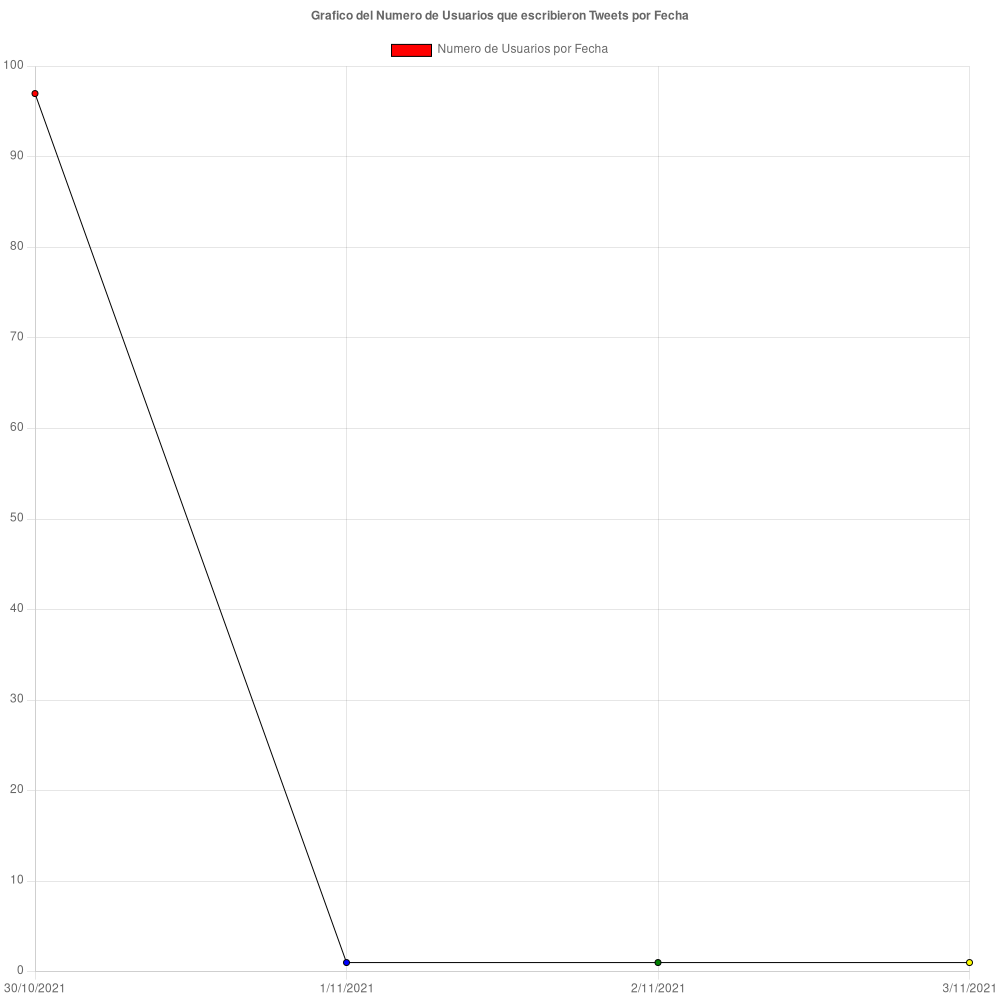
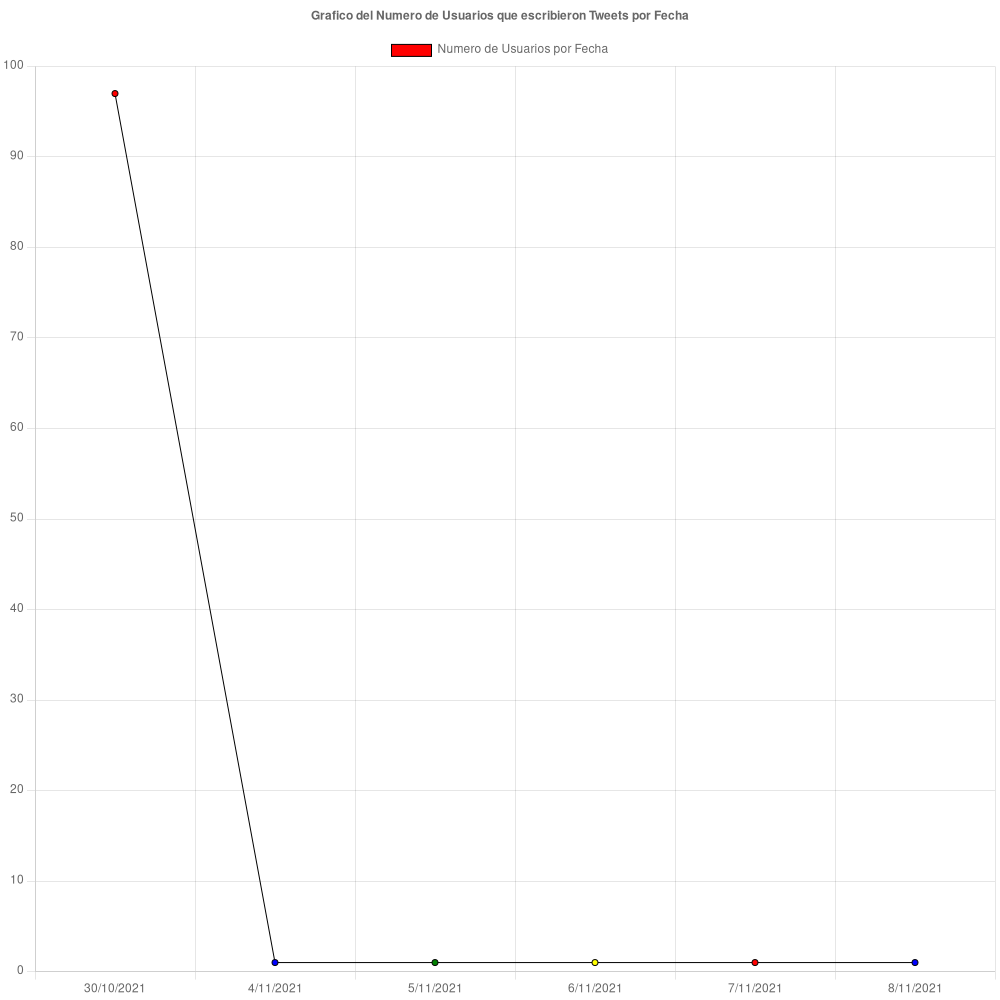
trabajo terminado

diff --git a/index.js b/index.js
@@ -1,16 +1,12 @@
 var natural = require('natural');
 var tokenizer = new natural.AggressiveTokenizerEs();
 
-
-
 var Twit = require('twit')
 var T = new Twit({
     consumer_key : "S0AENDlf3pPFqqtMMBGrDYB8z",
     consumer_secret : "t20hmQFuJ0eb6KmWcAAxaSoh3PmwjLjmii0Ttrzz3oGksSXXxv",
     access_token : "1186073449569144832-A3h1HusrVTjjlm29QUCIPXPMqRMN38",
     access_token_secret : "rPLFcHAhxd7cwTdOFuxF3bTNd2Wftw9RvqeUV32Mhiqna",
-  //timeout_ms:           60*1000,  // optional HTTP request timeout to apply to all requests.
-  //strictSSL:            true,     // optional - requires SSL certificates to be valid.
 })
 
 const fs = require('fs').promises;
@@ -18,7 +14,7 @@ const { ChartJSNodeCanvas }= require('chartjs-node-canvas');
 const width = 1000;   // define width and height of canvas 
 const height = 1000;   
 const chartCallback = (ChartJS) => {
- //console.log('Creando Histograma')
+
 };
 const canvasRenderService = new ChartJSNodeCanvas({width, height, chartCallback});
 const createImage = async (datos,tipoGrafico,op,nombreImagen) => {
@@ -256,16 +252,22 @@ function getTweets2(err, data, response) {
     datos.datasets[0].label = "Histograma de Palabras 2"
     datos.datasets[0].data = ejey_2
     //item 2 a)
-    //createImage(datos,'bar',opciones, "histograma2")
+    createImage(datos,'bar',opciones, "histograma2")
 
     //item 3
     //interseccion de conjuntos
+    console.log("Interseccion de Conjuntos: ")
+    let intersection = conjunto1Tweets.filter (x => conjunto2Tweets.includes (x));
+    console.log(intersection)
+
 
     //item 4
     //union de conjuntos
+    console.log("Union de Conjuntos: ")
+    let union = [...new Set([...conjunto1Tweets, ...conjunto2Tweets])];
+    console.log(union)
 
 
-    
     //console.log(tweetsDate)
     const frecuencia3 = tweetsDate.reduce(function (acc, curr) {
         return acc[curr] ? ++acc[curr] : acc[curr] = 1, acc
@@ -293,7 +295,7 @@ function getTweets2(err, data, response) {
     datos.datasets[0].data = ejey_3
     opciones.plugins.title.text = "Grafico del Numero de Tweets por Fecha"
     //item 5
-    //createImage(datos,'line',opciones, "tweetsXfecha")
+    createImage(datos,'line',opciones, "tweetsXfecha")
 
     //console.log(tweetsUser)
     //console.log(tweetsUsuario)
@@ -359,7 +361,7 @@ function getTweets2(err, data, response) {
     opciones.plugins.title.text = "Grafico del Numero de Usuarios que escribieron Tweets por Fecha"
 
     //item 6
-    //createImage(datos,'line',opciones, "usuarioxfecha")
+    createImage(datos,'line',opciones, "usuarioxfecha")
 
       
     const frecuencia5 = tweetsUsuario.reduce(function (acc, curr) {
@@ -396,13 +398,18 @@ function getTweets2(err, data, response) {
     datos.datasets[0].data = ejey_5
     opciones.plugins.title.text = "Grafico del Numero de Tweets por Usuario"
     //item 7
-    //createImage(datos,'line',opciones, "tweetsXusuario")
+    createImage(datos,'line',opciones, "tweetsXusuario")
 
     //item 8
     //diferencia conjunto1 tweets - conjunto 2 tweets
+    console.log("Diferencia de Conjunto 1 - Conjunto 2 es : ")
+    let difference1 = conjunto1Tweets.filter(x => !conjunto2Tweets.includes(x));
+    console.log(difference1)
+    
     //diferencia conjunto2 tweets - conjunto 1 tweets
-
-
+    console.log("Diferencia de Conjunto 2 - Conjunto 1 es : ")
+    let difference2 = conjunto2Tweets.filter(x => !conjunto1Tweets.includes(x));
+    console.log(difference2)
 
 
 }
